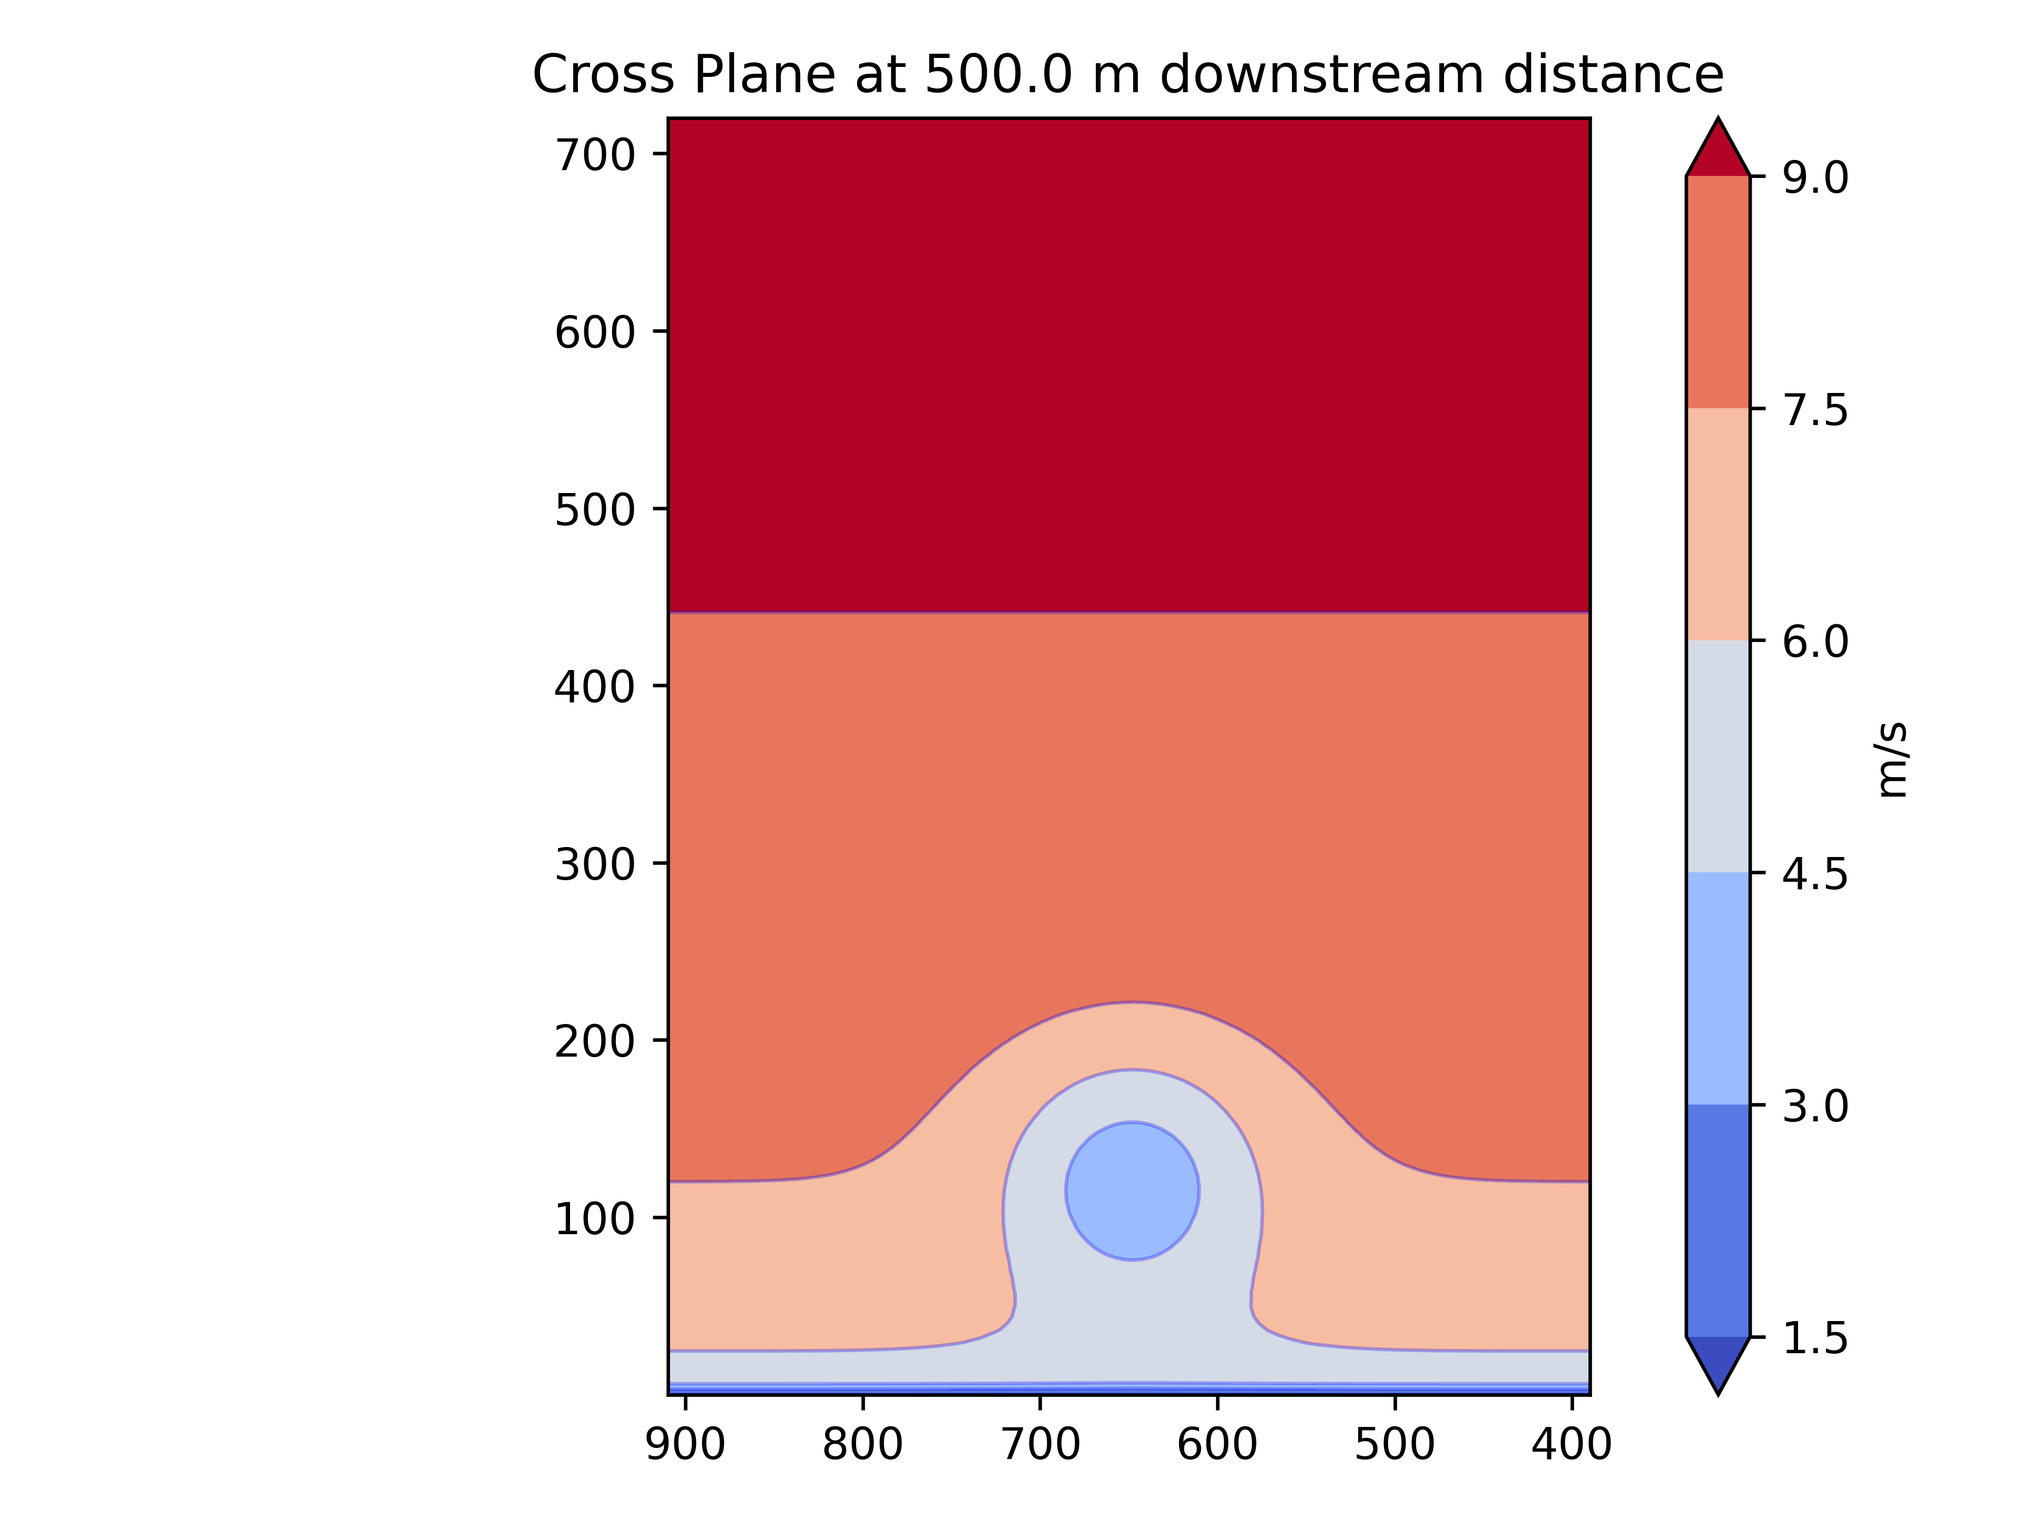
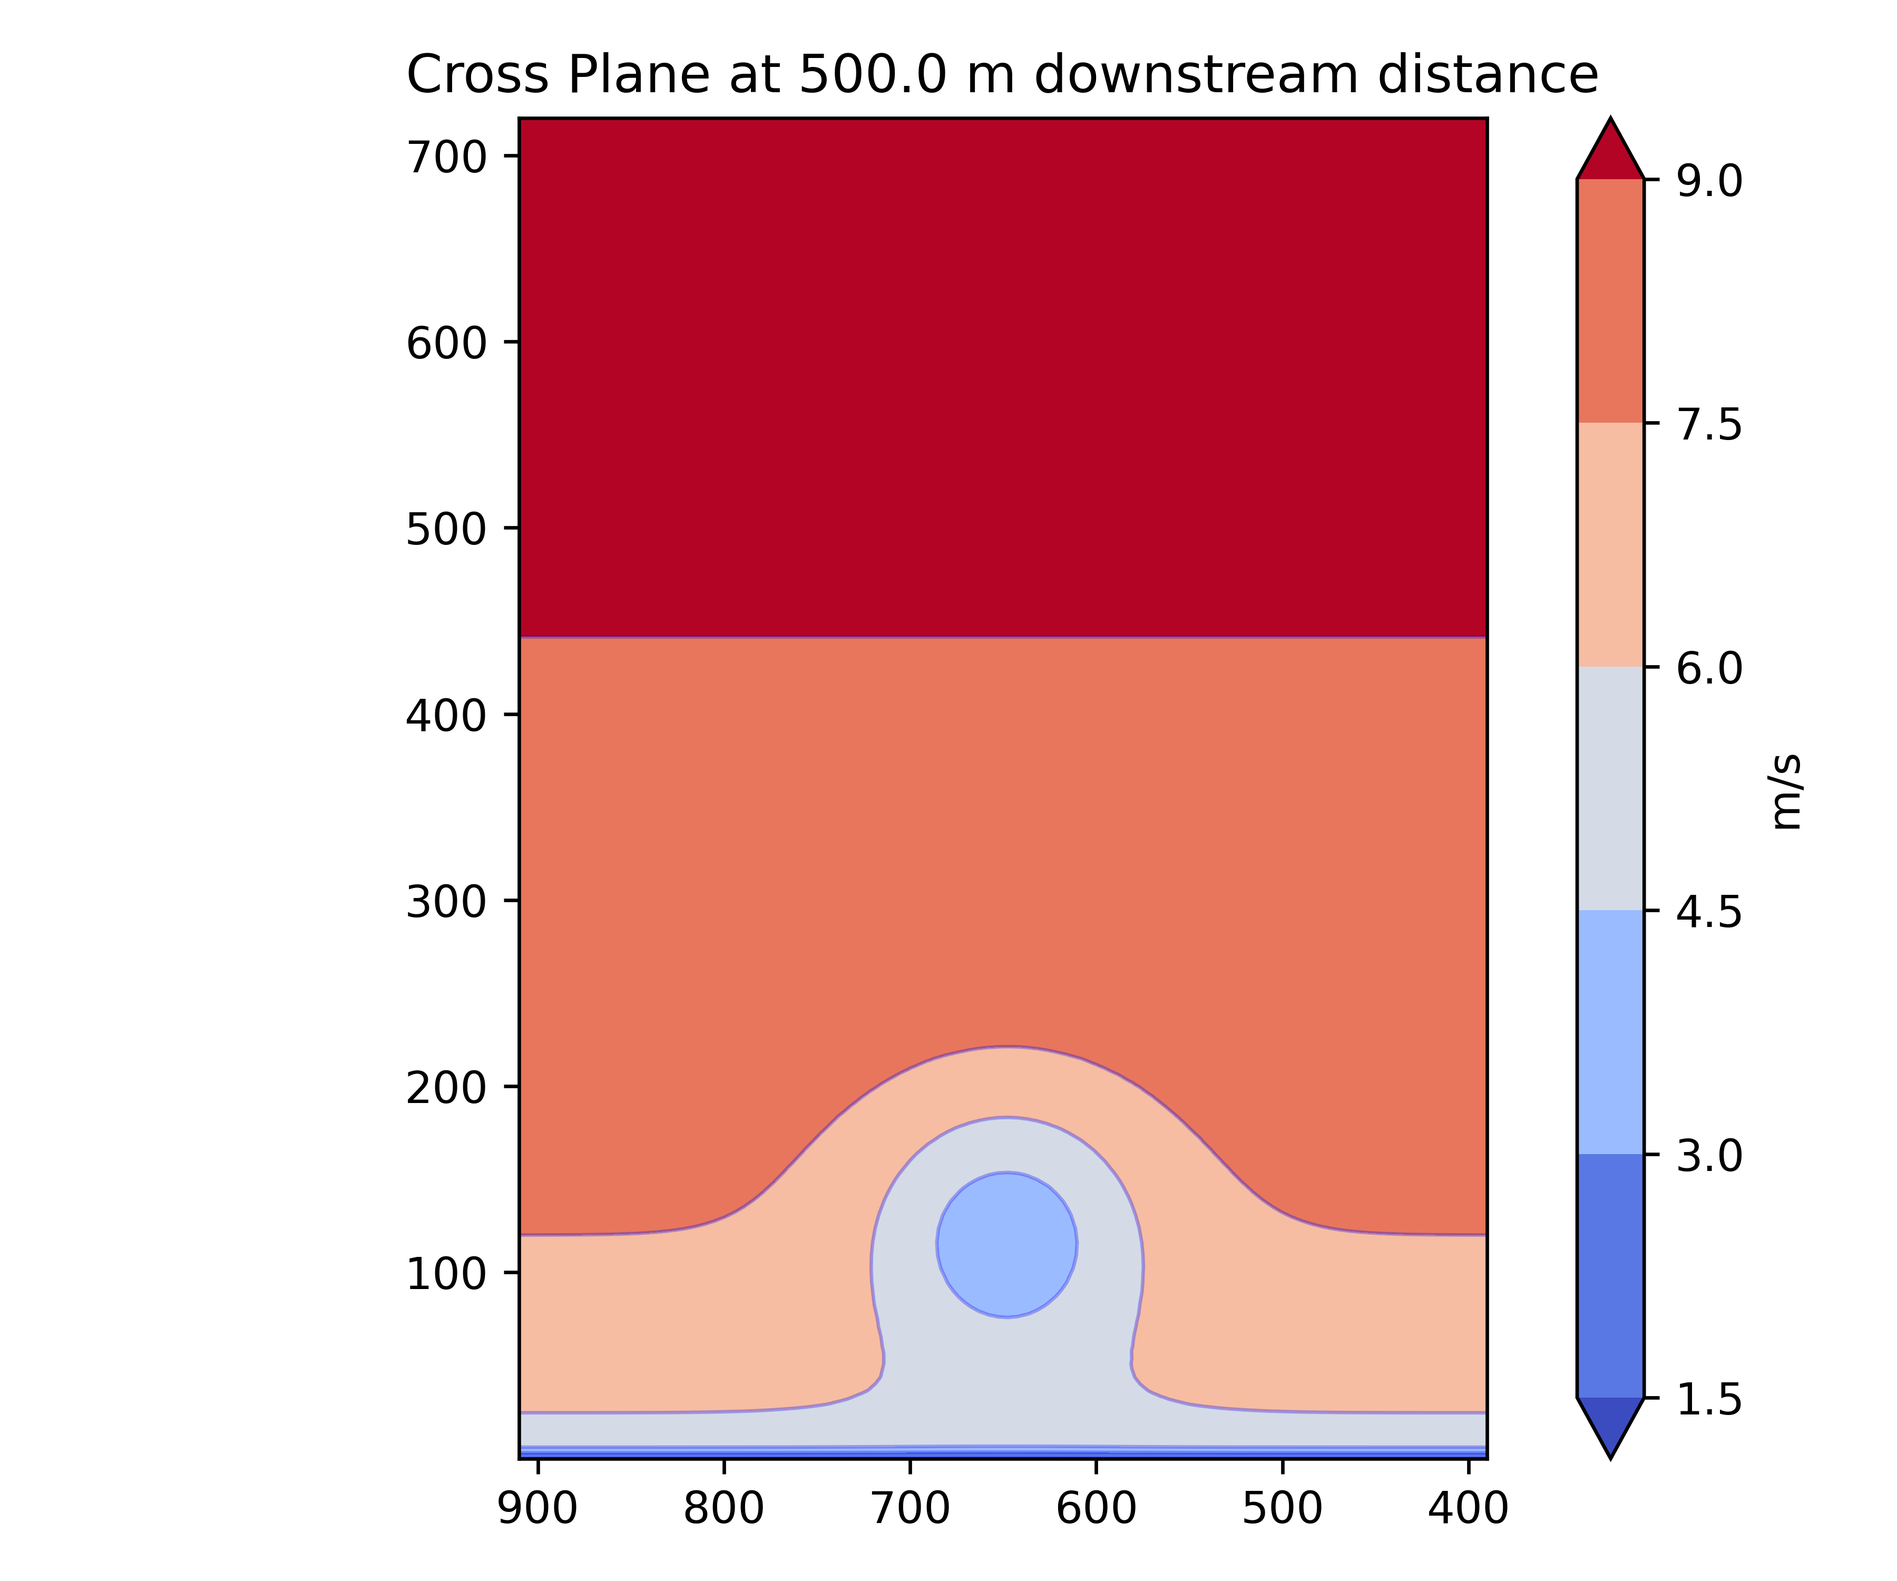
finish assignment 3

Changed region(s): [[0.2178, 0.0312, 0.9333, 0.9688], [0.9333, 0.4688, 0.9644, 0.5312]]

diff --git a/assignment3.py b/assignment3.py
@@ -19,11 +19,14 @@ class Assignment3:
 
     def __init__(self):
         self.farm_power_0_degrees_5D = None
+        self.farm_power_0_degrees_10D = None
 
         # Execution
         self.task2()
         self.task3()
         self.task4()
+        self.task5()
+        self.task6()
 
         self.plot()
 
@@ -168,9 +171,10 @@ class Assignment3:
         
         fmodel.run()
 
+        crossstream_dist = 650.0
+        downstream_dist = 500.0
+
         for findex in [0, 1]:
-            crossstream_dist = 650.0
-            downstream_dist = 500.0
             
             # Collect the data for 3 planes using pre-built methods
             horizontal_plane = fmodel.calculate_horizontal_plane(height=120.0, x_resolution=100, y_resolution=100, findex_for_viz=findex)
@@ -178,9 +182,9 @@ class Assignment3:
             cross_plane = fmodel.calculate_cross_plane(y_resolution=100, z_resolution=100, downstream_dist=downstream_dist, findex_for_viz=findex)
 
             # Plot the planes using pre-built methods
-            fig1, ax1 = plt.subplots()
-            fig2, ax2 = plt.subplots()
-            fig3, ax3 = plt.subplots()
+            fig1, ax1 = plt.subplots( figsize=(6, 5) )
+            fig2, ax2 = plt.subplots( figsize=(6, 5) )
+            fig3, ax3 = plt.subplots( figsize=(6, 5) )
 
             ax1 = visualize_cut_plane(horizontal_plane, ax=ax1, title=f"Horizontal Plane at 120 m", color_bar=True)
             ax2 = visualize_cut_plane(y_plane, ax=ax2, title=f"Y Plane at {crossstream_dist} m", color_bar=True)
@@ -253,6 +257,156 @@ class Assignment3:
         print(f"Simulated Farm Power (KW): {self.farm_power_0_degrees_5D/1e3}")
         print(f"Difference in Farm Power (KW): {assignment2_farm_power_0_degrees - self.farm_power_0_degrees_5D/1e3}")
         print(f"Difference farm power in %: {(assignment2_farm_power_0_degrees - self.farm_power_0_degrees_5D/1e3) / assignment2_farm_power_0_degrees * 100}")
+
+    def task5(self):
+        """
+        Repeat question 4 only for a wind direction of 0° and if the separation distance increases 
+        to 10D. Calculate the relative difference (percentage) of the output power of the farm with 
+        respect to the case of 5D.
+        """
+
+        fmodel = FlorisModel("inputs/jensen.yaml")
+
+        # Set the wind speed and direction
+        fmodel.set(
+            wind_speeds=[7.5],
+            wind_directions=[0.0],
+            turbulence_intensities=[0.06],
+            turbine_type=["IEA3_4_MW", "IEA3_4_MW", "IEA3_4_MW"],
+            wind_shear=0.14,
+            layout_x=[0.0, 0.0, 0.0],
+            layout_y=[0.0, 1300.0, 2600.0]
+        )
+
+        fmodel.run()
+        turbine_powers = fmodel.get_turbine_powers()
+        farm_power = fmodel.get_farm_power()
+
+        print(f"\nWind direction: 0° with 10D separation:")
+        print(f"Turbine Powers (KW): {turbine_powers[0]/1e3}")
+        print(f"Farm Power (KW): {farm_power[0]/1e3}")
+
+        self.farm_power_0_degrees_10D = farm_power[0]
+
+        relative_difference_farm_power = (self.farm_power_0_degrees_10D - self.farm_power_0_degrees_5D) / self.farm_power_0_degrees_5D * 100
+
+        print(f"\nRelative difference in farm power between 5D and 10D cases: {relative_difference_farm_power:.2f}%")
+
+    def task6(self):
+        """
+        Use the Gaussian wake model and determine the output power of each wind turbine and 
+        visualize the flow field for night and day conditions when the wind speed is 7.5 m/s, wind 
+        direction is 0° and the separations distance is 5D. Explain your answer and compare the 
+        results and recovery of the turbine wakes for day and night. How do the wind shear and turbulence 
+        intensity paramteres affect power generation? 
+        """
+
+        # Given paramteres for day and night conditions
+        day_ws = 0.06
+        day_ti = 0.12
+
+        night_ws = 0.22
+        night_ti = 0.06
+
+        day_fmodel = FlorisModel("inputs/gch.yaml")
+        night_fmodel = FlorisModel("inputs/gch.yaml")
+
+        # Set the wind speed and direction for day conditions
+        day_fmodel.set(
+            wind_speeds=[7.5],
+            wind_directions=[0.0],
+            turbulence_intensities=[day_ti],
+            turbine_type=["IEA3_4_MW", "IEA3_4_MW", "IEA3_4_MW"],
+            wind_shear=day_ws,
+            layout_x=[0.0, 0.0, 0.0],
+            layout_y=[0.0, 650.0, 1300.0]
+        )
+
+        # Set the wind speed and direction for night conditions
+        night_fmodel.set(
+            wind_speeds=[7.5],
+            wind_directions=[0.0],
+            turbulence_intensities=[night_ti],
+            turbine_type=["IEA3_4_MW", "IEA3_4_MW", "IEA3_4_MW"],
+            wind_shear=night_ws,
+            layout_x=[0.0, 0.0, 0.0],
+            layout_y=[0.0, 650.0, 1300.0]
+        )
+
+        # Run the simulations
+        day_fmodel.run()
+        night_fmodel.run()
+
+        # Get the turbine powers and farm power for day and night conditions
+        day_turbine_powers = day_fmodel.get_turbine_powers()
+        night_turbine_powers = night_fmodel.get_turbine_powers()
+
+        # Get farm power for day and night conditions
+        day_farm_power = day_fmodel.get_farm_power()
+        night_farm_power = night_fmodel.get_farm_power()
+
+        # Define the crossstream and downstream distances
+        crossstream_dist = 650.0
+        downstream_dist = 500.0
+
+        # Visualize the flow fields for day and night conditions
+        day_horizontal_plane = day_fmodel.calculate_horizontal_plane(height=120.0, x_resolution=100, y_resolution=100, findex_for_viz=0)
+        night_horizontal_plane = night_fmodel.calculate_horizontal_plane(height=120.0, x_resolution=100, y_resolution=100, findex_for_viz=0)
+
+        day_y_plane = day_fmodel.calculate_y_plane(x_resolution=100, z_resolution=100, crossstream_dist=crossstream_dist, findex_for_viz=0)
+        night_y_plane = night_fmodel.calculate_y_plane(x_resolution=100, z_resolution=100, crossstream_dist=crossstream_dist, findex_for_viz=0)
+
+        day_cross_plane = day_fmodel.calculate_cross_plane(y_resolution=100, z_resolution=100, downstream_dist=downstream_dist, findex_for_viz=0)
+        night_cross_plane = night_fmodel.calculate_cross_plane(y_resolution=100, z_resolution=100, downstream_dist=downstream_dist, findex_for_viz=0)
+
+        # Plot the planes using pre-built methods. Show day and night conditions side by side for comparison
+        fig1, ax1 = plt.subplots(1, 2, figsize=(8, 5), constrained_layout=True)
+        fig2, ax2 = plt.subplots(1, 2, figsize=(12, 4), constrained_layout=True)
+        fig3, ax3 = plt.subplots(1, 2, figsize=(12, 5), constrained_layout=True)
+
+        # force same color scale for day/night on each plane
+        hmin = min(day_horizontal_plane.df["u"].min(), night_horizontal_plane.df["u"].min())
+        hmax = max(day_horizontal_plane.df["u"].max(), night_horizontal_plane.df["u"].max())
+
+        ymin = min(day_y_plane.df["u"].min(), night_y_plane.df["u"].min())
+        ymax = max(day_y_plane.df["u"].max(), night_y_plane.df["u"].max())
+
+        cmin = min(day_cross_plane.df["u"].min(), night_cross_plane.df["u"].min())
+        cmax = max(day_cross_plane.df["u"].max(), night_cross_plane.df["u"].max())
+
+        visualize_cut_plane(day_horizontal_plane, ax=ax1[0], title=f"Day - Horizontal Plane at 120 m", color_bar=False, min_speed=hmin, max_speed=hmax)
+        visualize_cut_plane(night_horizontal_plane, ax=ax1[1], title=f"Night - Horizontal Plane at 120 m", color_bar=False, min_speed=hmin, max_speed=hmax)
+
+        visualize_cut_plane(day_y_plane, ax=ax2[0], title=f"Day - Y Plane at {crossstream_dist} m", color_bar=False, min_speed=ymin, max_speed=ymax)
+        visualize_cut_plane(night_y_plane, ax=ax2[1], title=f"Night - Y Plane at {crossstream_dist} m", color_bar=False, min_speed=ymin, max_speed=ymax)
+
+        visualize_cut_plane(day_cross_plane, ax=ax3[0], title=f"Day - Cross Plane at {downstream_dist} m downstream distance", color_bar=False, min_speed=cmin, max_speed=cmax)
+        visualize_cut_plane(night_cross_plane, ax=ax3[1], title=f"Night - Cross Plane at {downstream_dist} m downstream distance", color_bar=False, min_speed=cmin, max_speed=cmax)
+
+        mappable1 = ax1[0].collections[0]
+        fig1.colorbar(mappable1, ax=ax1, orientation="vertical", label="Wind speed (m/s)")
+        mappable2 = ax2[0].collections[0]
+        fig2.colorbar(mappable2, ax=ax2, orientation="vertical", label="Wind speed (m/s)")
+        mappable3 = ax3[0].collections[0]
+        fig3.colorbar(mappable3, ax=ax3, orientation="vertical", label="Wind speed (m/s)")  
+
+        # Plot the turbine rotors for horizontal plane for day and night conditions
+        layoutviz.plot_turbine_rotors(day_fmodel, ax=ax1[0])
+        layoutviz.plot_turbine_rotors(night_fmodel, ax=ax1[1])
+
+        # Save all generated graphs for day and night conditions in images folder
+        fig1.savefig(f"images/assignment3_day_night_horizontal_plane.png", dpi=600)
+        fig2.savefig(f"images/assignment3_day_night_y_plane.png", dpi=600)
+        fig3.savefig(f"images/assignment3_day_night_cross_plane.png", dpi=600)
+
+        # print the turbine powers and farm power for day and night conditions
+        print(f"\nDay conditions:")
+        print(f"Turbine powers (KW): {day_turbine_powers/1e3}")
+        print(f"Farm power (KW): {day_farm_power/1e3}")
+
+        print(f"\nNight conditions:")
+        print(f"Turbine powers (KW): {night_turbine_powers/1e3}")
+        print(f"Farm power (KW): {night_farm_power/1e3}")
 
     def plot(self):
         plt.show()

diff --git a/ReadMe3.md b/ReadMe3.md
@@ -12,19 +12,19 @@ Resulting graphs:
 There seem to be no differences of both thrust or power coefficients regarding changes in the air density.
 
 ![left: Power curve right: power vs yaw angle](images\assignment3_power_power_vs_yaw_angle_task2.png)
-The power curve for IEA 3.4 MW. On the right side the power curves for different air densities for various yaw angles. 
+The power curve for IEA 3.4 MW. On the right side the power curves for different air densities for various yaw angles. Especially for the different yaw angles a reduction in air density leads to a very visible reduction in produced power.
 
 ### Task 3
 Define the wind farm in FLORIS and visualize the wind farm flow field in the (a) horizontal 
 plane at hub height, (b) stream-wise plane, and (c) span-wise plane when the wind speed 
 is 7.5 m/s for two wind directions of 0° and 240°.
 
-Resulting graphs for 0° and 7.5 m/s:
+#### Resulting graphs for 0° and 7.5 m/s:
 ![Horizontal plane](images/assignment3_horizontal_plane_findex_0.png)
 ![Y plane](images/assignment3_y_plane_findex_0.png)
 ![Cross plane](images/assignment3_cross_plane_findex_0.png)
 
-Resulting graphs for 240° and 7.5 m/s:
+#### Resulting graphs for 240° and 7.5 m/s:
 ![Horizontal plane](images/assignment3_horizontal_plane_findex_1.png)
 ![Y plane](images/assignment3_y_plane_findex_1.png)
 ![Cross plane](images/assignment3_cross_plane_findex_1.png)
@@ -34,7 +34,7 @@ Note: I changed 2 values to 0.075 from 0.05, as I was unsure which the correct k
 - jimenez wake_deflection_parameters: kd
 - jensen wake_velocity_parameters: we
 
-You should receive a terminal output reading: \
+You should receive a terminal output reading: 
 - Wind direction: 0°:
 - Turbine Powers (KW): [ 807.29781772  866.56161592 1505.91490815]
 - Farm Power (KW): 3179.774341782955
@@ -50,8 +50,44 @@ You should receive a terminal output reading: \
 - Hand-calculated Farm Power (KW): 3199.93
 - Simulated Farm Power (KW): 3179.77
 - Difference in Farm Power (KW): 20.16
-- Difference farm power in %: 0.63
+- Difference farm power in %: -0.63 for floris simulated case.
 
 #### Likely reasons for differences in final values:
 - Larger rounding errors in hand calculation
 - Simplifications in hand calculation. It seems to me that the pre-built jensen model in floris calculates the solutions with defelection and turbulence parameters which I did not take into account by hand.
+
+### Task 5
+Reused same calculation as for task 4, except changing layout_y coordinates to 10D distances. The drop in power for secondary and third turbine is significantly less.
+
+Wind direction: 0° with 10D separation:
+- Turbine Powers (KW): [1140.48525628 1163.23271043 1505.91490815]
+- Farm Power (KW): 3809.632874855524
+
+Relative difference in farm power between 5D and 10D cases: +19.81% in 10D case.
+
+### Task 6
+Gaussian wake model for different wind shear and turbulence intensities for day and night.
+
+In the day and night comparison for the horizontal plane we can clearly recognize, that the wind speeds are more reduced for the second turbine then for the third turbine. The wind seems to have recovered more for the third turbine. 
+
+![Day and night comparison horizontal plane](images/assignment3_day_night_horizontal_plane.png)
+
+The Y Plane visualisation shows the different atmospheric layering during day and night. At night reduced wind speeds stack up much higher then during the day due to less mixing of the layers. We can also see the more reduced wind speeds for the second turbine compared to the thrid turbine.
+
+![Day and night comparison y plane](images/assignment3_day_night_y_plane.png)
+
+The cross plane shows the mentioned effect of different layering during day and night as well. It also shows how the wind speed has recovered much better during the day then during the night. Note that this cross section is between T1 and T2 at 500 m downstream distance.
+
+![Day and night comparison cross plane](images/assignment3_day_night_cross_plane.png)
+
+Results indicate a counterintuitive situation in which the second turbine generates less energy then the third turbine. \
+Day conditions:
+- Turbine powers (KW): [[ 760.60998091  725.01817779 1509.48742723]]
+- Farm power (KW): [2995.11558594]
+
+Night conditions:
+- Turbine powers (KW): [[ 464.75315535  396.56554767 1506.6874367 ]]
+- Farm power (KW): [2368.00613971]
+
+#### Interpretation and Analysis of Wind Farm Performance
+The simulation shows how different atmospheric conditions change the power output of a wind farm. Counterintuituve, the third turbine in the row (T3) produces more power than the middle turbine (T2) in both cases. This result seemed wronged at first, but it is a known effect in wake theory. It shows that the wind farm is actually recovering some of its energy as the air flows downstream. The main reason for the power increase at the third turbine is "wake-added turbulence". The first turbine (T1) faces clean, smooth air. As the wind passes through T1 and T2, these turbines stir up the air like a giant blender. This extra turbulence helps mix the slow air inside the wake with the fast air outside of it. Because the air is more "mixed" by the time it reaches T3, the wind speed has recovered more than it did for T2. This explains why T3 produces roughly $35 \text{ kW}$ to $68 \text{ kW}$ more than T2 in our tests. The atmosphere changes significantly between day and night, which impacts the farm efficiency. Day Conditions: The air has higher natural turbulence ($12\%$) and lower wind shear ($0.06$). The total farm power is higher ($2995 \text{ kW}$) because the natural mixing helps the wakes disappear faster.Night Conditions: The air is much more stable with low natural turbulence ($6\%$) and high shear ($0.22$). The wakes become "stuck" and last much longer. At night, the first wake is very deep, which causes T2 to lose more than $70\%$ of its potential power compared to T1. However, the mixing effect from the turbines is even more important at night because there is no natural turbulence to help. These results prove that the Gaussian Model used here is more realistic than the Jensen Model from the previous assignments and tasks. The Jensen model only shows wind speed dropping further as you go downstream. The Gaussian model correctly captures the physics of air mixing and momentum recovery. This allows us to see how T3 can actually perform better than the turbine directly in front of it.
